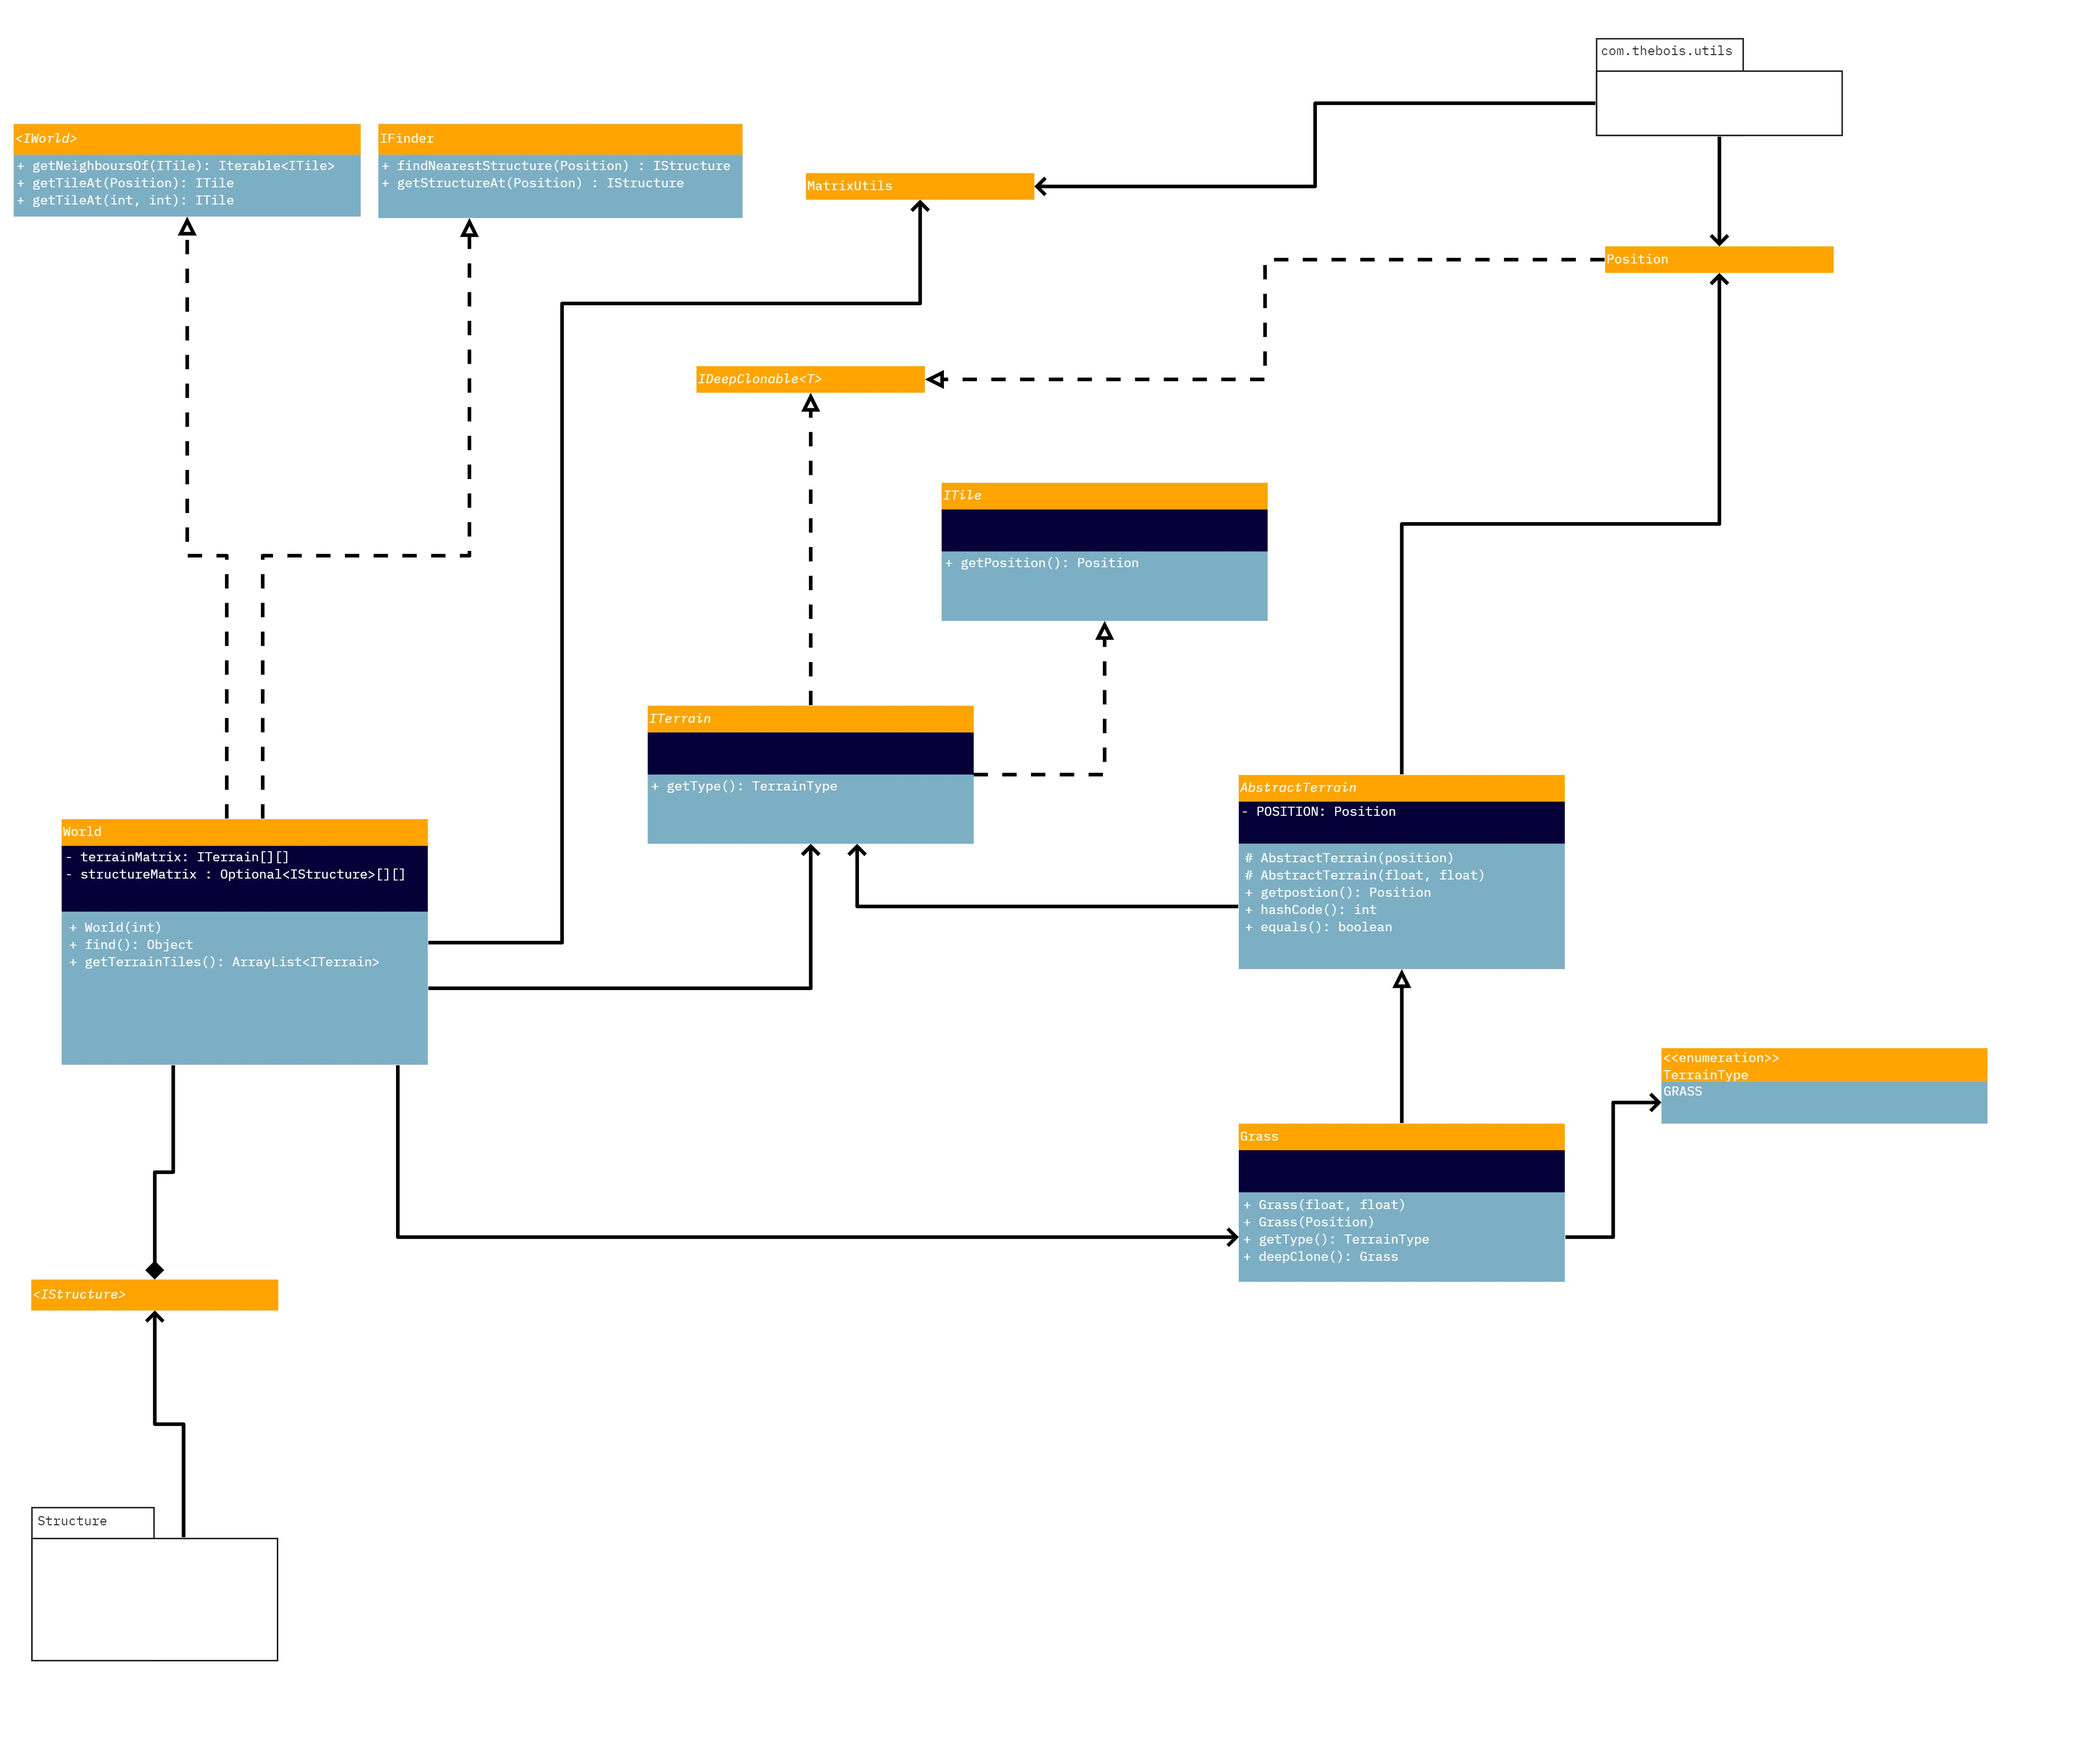
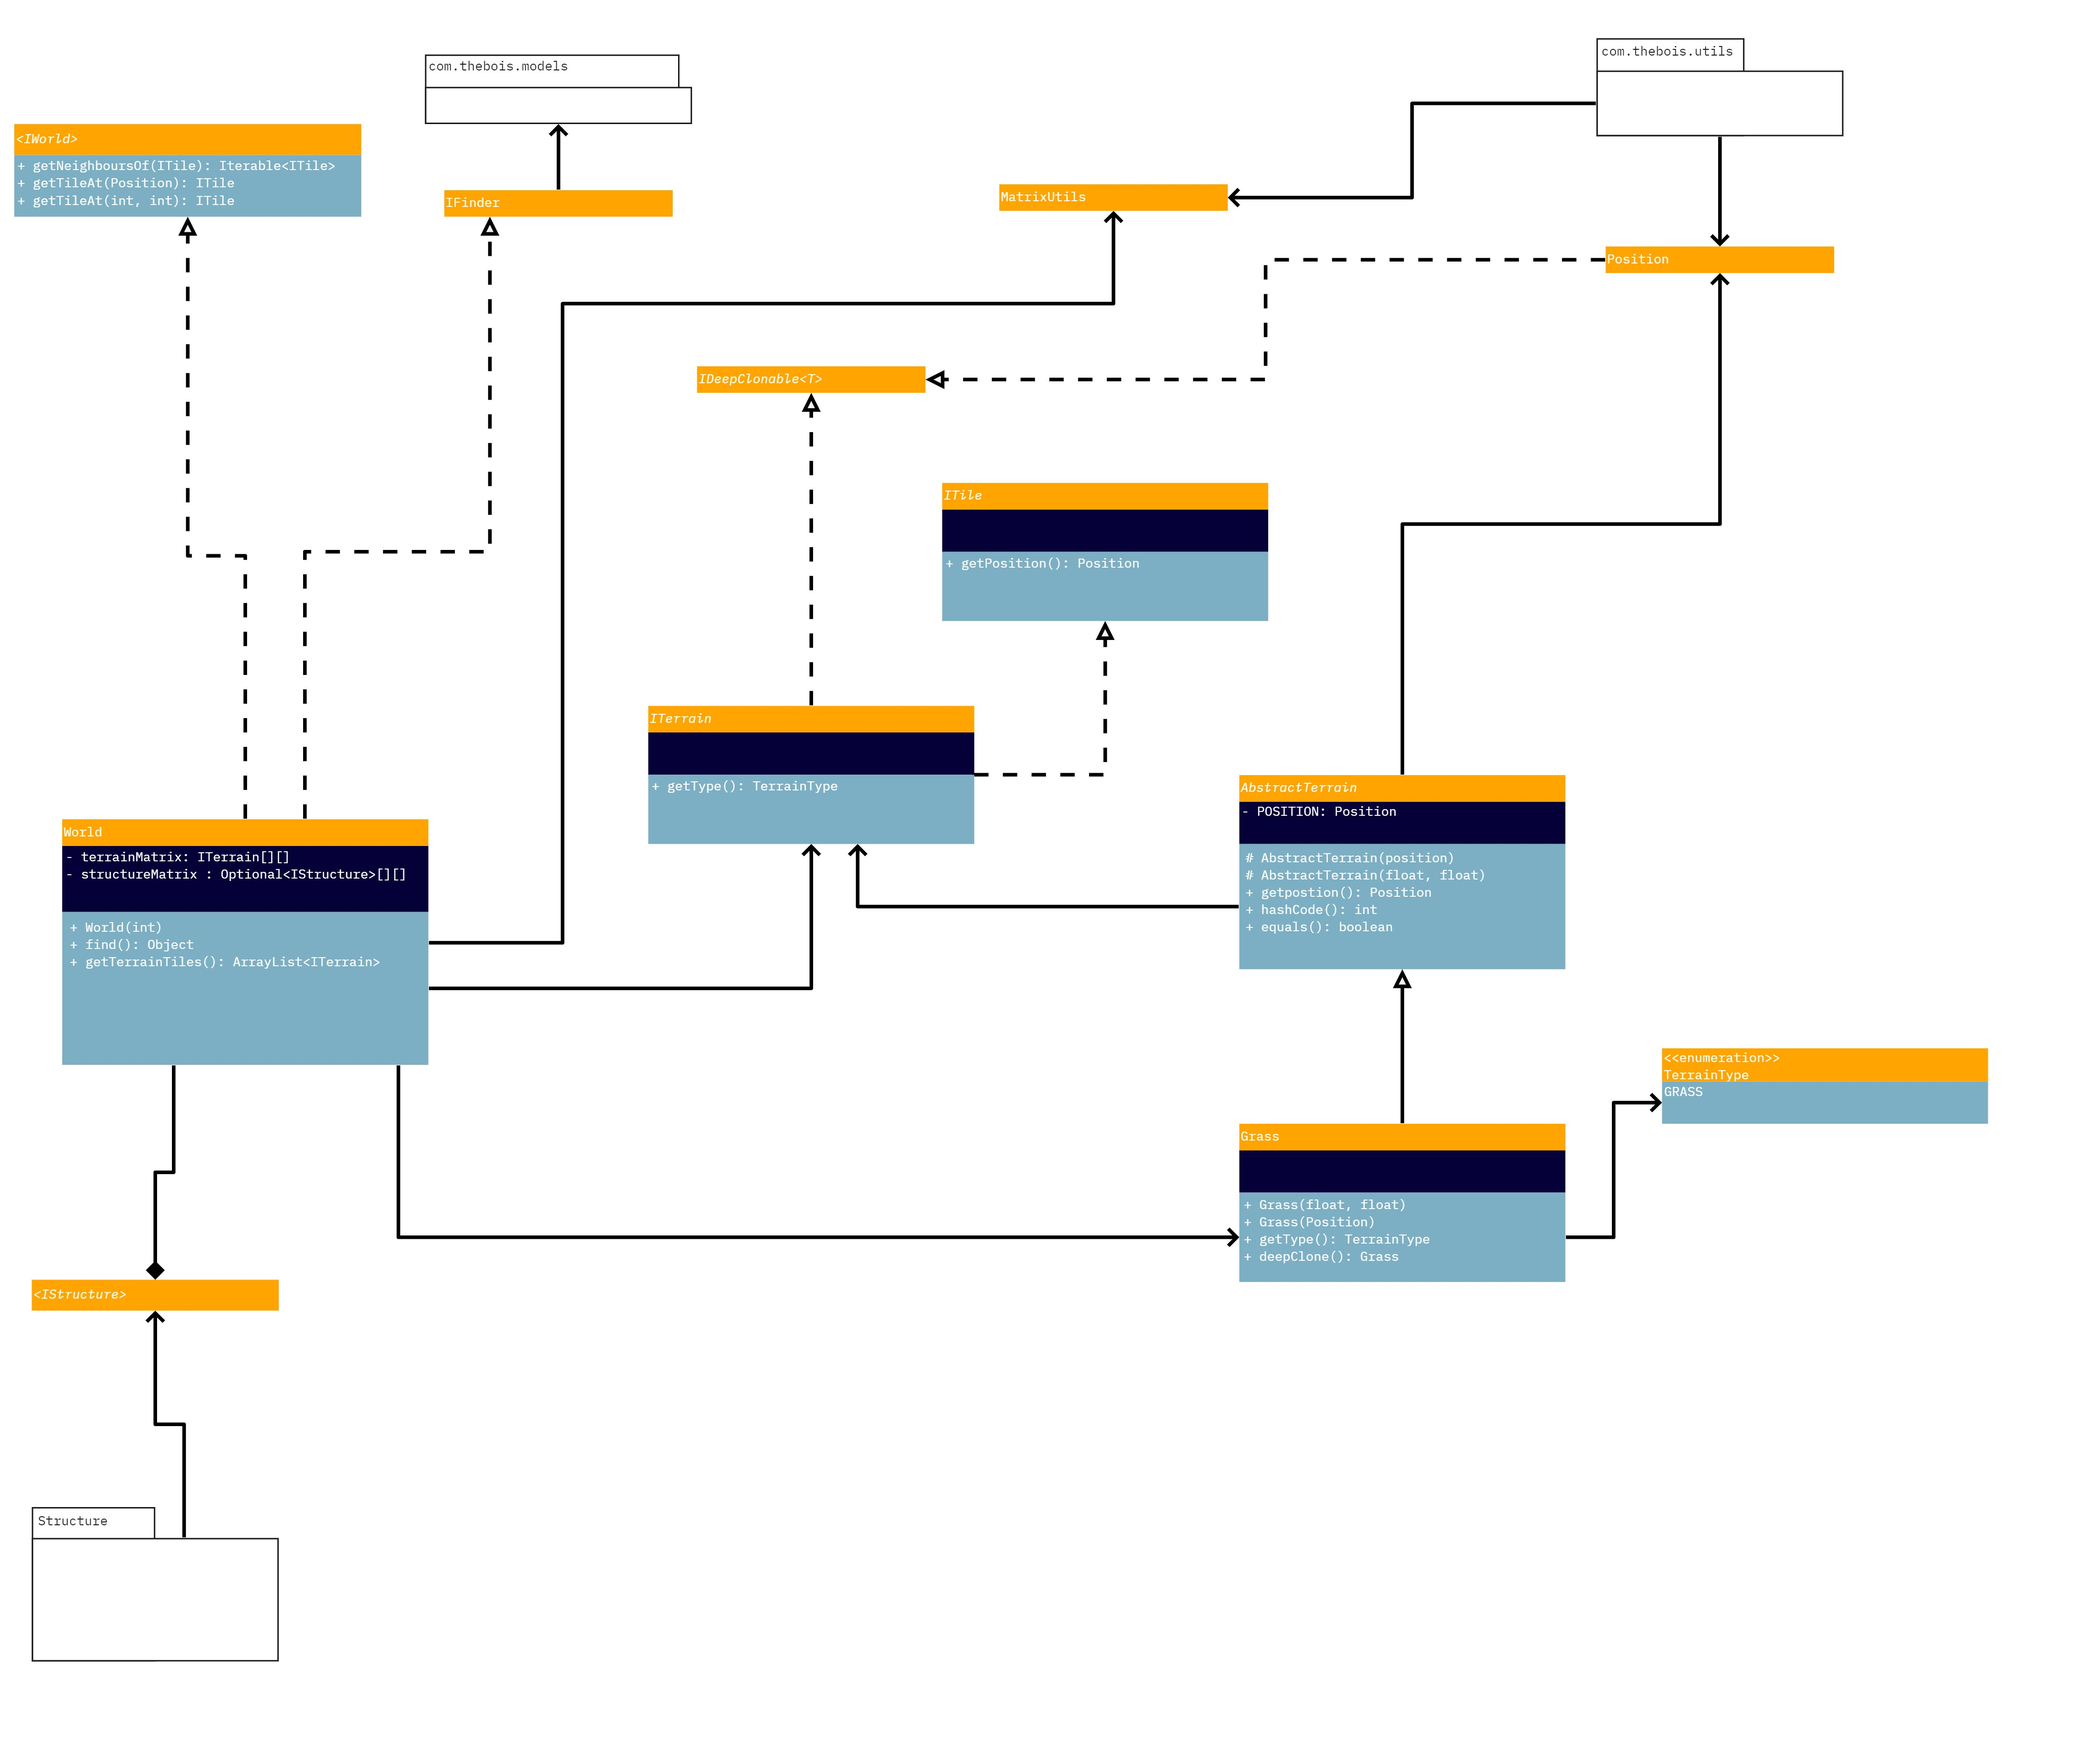
Update images in readme files

diff --git a/src/test/java/com/thebois/models/beings/BeingTests.java b/src/test/java/com/thebois/models/beings/BeingTests.java
@@ -2,7 +2,6 @@ package com.thebois.models.beings;
 
 import java.util.ArrayList;
 import java.util.Collection;
-import java.util.List;
 import java.util.Optional;
 import java.util.Random;
 import java.util.stream.Stream;
@@ -245,7 +244,7 @@ public class BeingTests {
 
         final IFinder mockFinder = Mockito.mock(IFinder.class);
 
-        when(mockFinder.findNearestStructure(any(), anyInt())).thenReturn(structures);
+        when(mockFinder.findNearestStructures(any(), anyInt())).thenReturn(structures);
         // builtStructure would be found first by the current finder
         when(mockFinder.findNearestStructure(any())).thenReturn(Optional.of(builtStructure));
 

diff --git a/src/main/java/com/thebois/models/world/World.java b/src/main/java/com/thebois/models/world/World.java
@@ -220,8 +220,8 @@ public class World implements IFinder {
     }
 
     @Override
-    public Collection<Optional<IStructure>> findNearestStructure(final Position position,
-                                                                 final int count) {
+    public Collection<Optional<IStructure>> findNearestStructures(final Position position,
+                                                                  final int count) {
 
         final int searchRow = Math.round(position.getPosY());
         final int searchCol = Math.round(position.getPosX());

diff --git a/src/main/java/com/thebois/models/beings/Pawn.java b/src/main/java/com/thebois/models/beings/Pawn.java
@@ -51,7 +51,7 @@ public class Pawn extends AbstractBeing {
 
     protected void pickNearestIncompleteStructureAsDestination() {
         final Collection<Optional<IStructure>> structures =
-            getFinder().findNearestStructure(this.getPosition(), 10);
+            getFinder().findNearestStructures(this.getPosition(), 10);
         final Boolean[] found = {false};
         for (final Optional<IStructure> structure : structures) {
             structure.ifPresent(iStructure -> {

diff --git a/src/main/java/com/thebois/models/IFinder.java b/src/main/java/com/thebois/models/IFinder.java
@@ -27,7 +27,7 @@ public interface IFinder {
      *
      * @return The found IStructure.
      */
-    Collection<Optional<IStructure>> findNearestStructure(Position position, int count);
+    Collection<Optional<IStructure>> findNearestStructures(Position position, int count);
 
     /**
      * Returns the IStructure at position.

diff --git a/src/main/java/com/thebois/models/world/README.md b/src/main/java/com/thebois/models/world/README.md
@@ -2,4 +2,4 @@
 
 ## UML Class Diagram
 
-![com.thebois.models.world](./../../../../../../../documents/diagrams/com.thebois.models.world.jpg "com.thebois.listeners")
+![com.thebois.models.world](./../../../../../../../documents/diagrams/com.thebois.models.world.jpg "com.thebois.models.world")

diff --git a/src/main/java/com/thebois/models/beings/README.md b/src/main/java/com/thebois/models/beings/README.md
@@ -1,0 +1,5 @@
+# com.thebois.models.beings
+
+## UML Class Diagram
+
+![com.thebois.models.beings](../../../../../../../documents/diagrams/com.thebois.models.beings.jpg "com.thebois.models.beings")

diff --git a/src/main/java/com/thebois/utils/README.md b/src/main/java/com/thebois/utils/README.md
@@ -1,0 +1,5 @@
+# com.thebois.utils
+
+## UML Class Diagram
+
+![com.thebois.utils](../../../../../../documents/diagrams/com.thebois.utils.jpg "com.thebois.utils")
